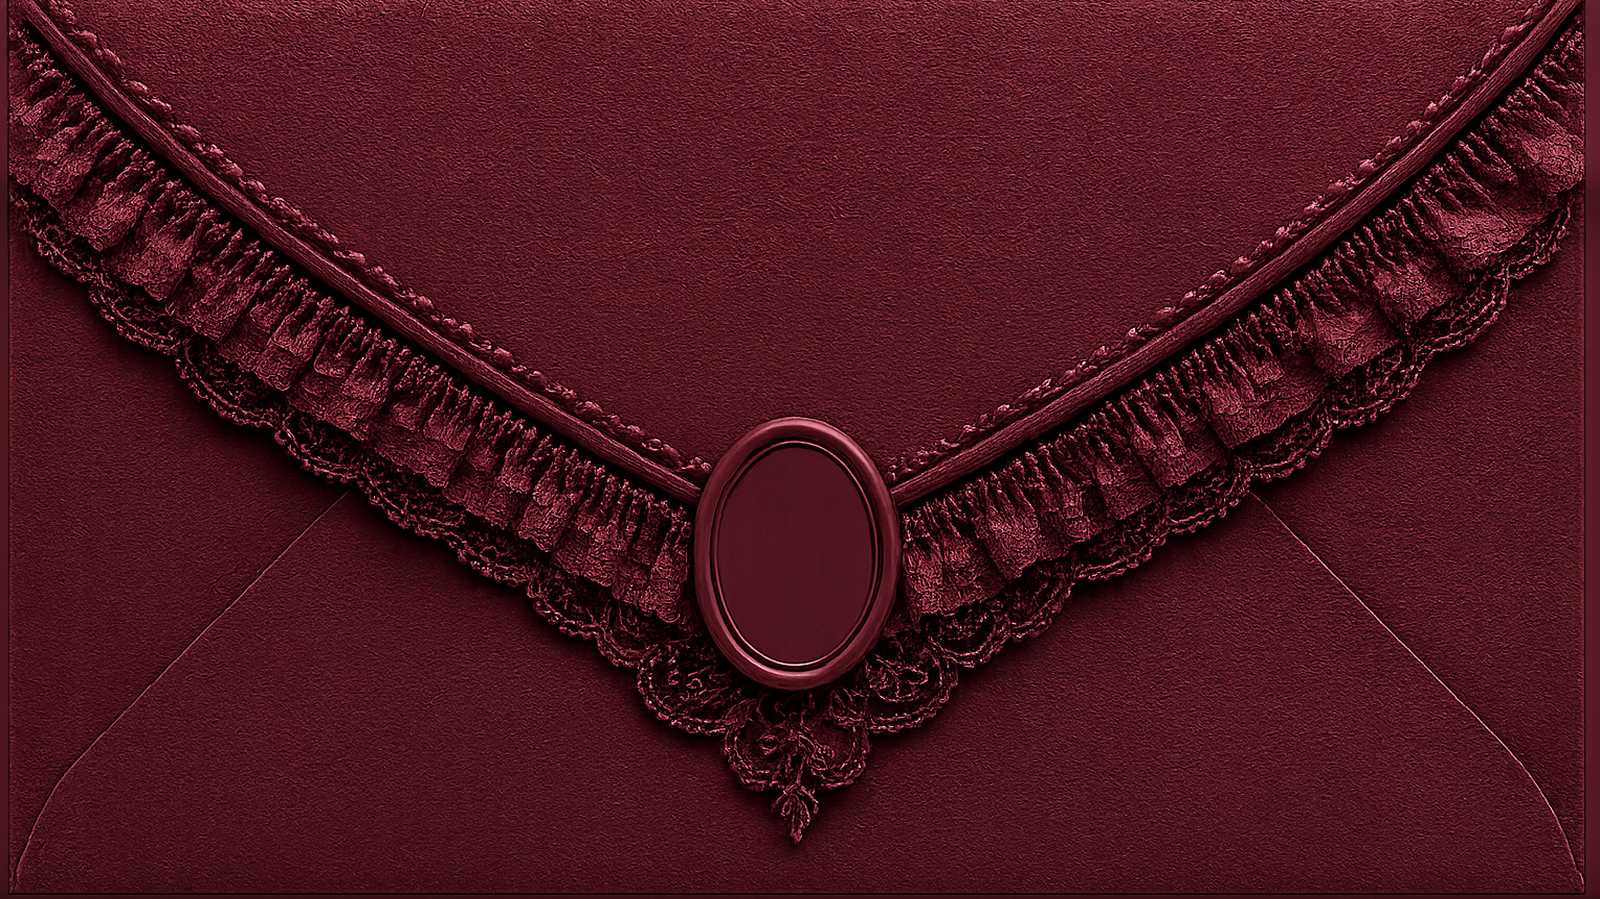
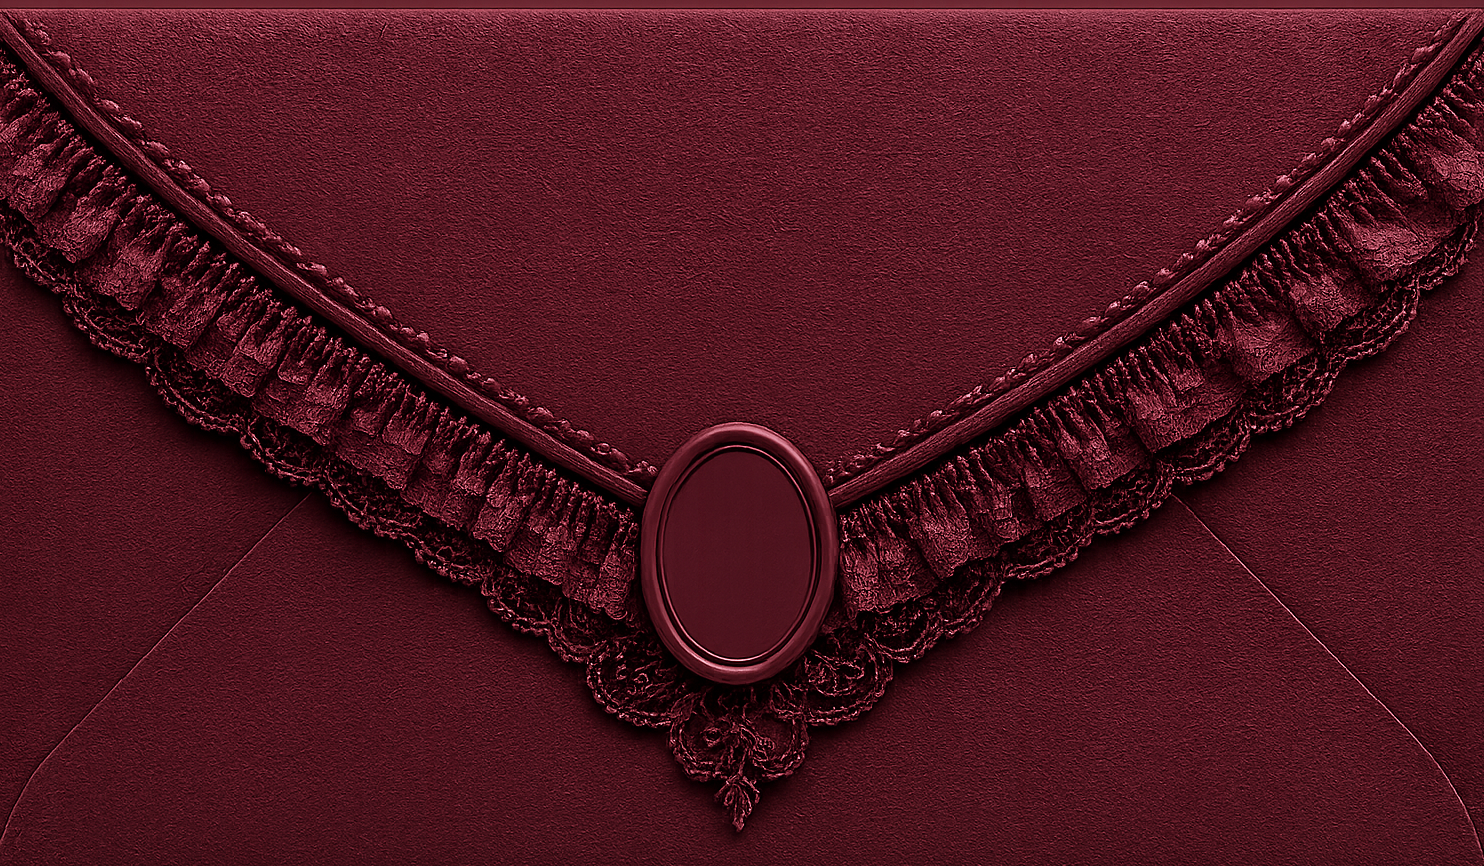
fix: env2 cover zoomed out — art cropped to the envelope face, desktop shows the whole envelope (contain) over the theme bg, mobile covers; seal targets remapped

diff --git a/src/styles/styles.css b/src/styles/styles.css
@@ -1852,7 +1852,7 @@ img.inv-seal-img--front { left: 48.28%; top: 89.56%; width: 10.15%; transform: t
    click hotspot + pulse ring to match it (olive's is a tall 13%x26% oval at
    49.4%/56.99% — too big + off-centre here). Higher specificity than the mobile
    .eg-sealed rule so it wins everywhere. */
-[data-theme="envelope2"] .eg-sealed .inv-seal-hotspot { left: 49.4%; top: 61.4%; width: 11.5%; height: 30.5%; transform: translate(-50%, -50%); }
+[data-theme="envelope2"] .eg-sealed .inv-seal-hotspot { left: 49.4%; top: 63.7%; width: 12%; height: 30.5%; transform: translate(-50%, -50%); }
 .inv-seal-hotspot {
   position: absolute; left: 49.4%; top: 56.99%; width: 13%; height: 26%;
   transform: translate(-50%, -50%); border: 0; background: transparent; padding: 0; margin: 0;
@@ -2035,14 +2035,20 @@ html:has(body.env-sealed) { overflow: hidden; overscroll-behavior: none; }
    visible pixelation on large screens. Show it near native scale; safe now that
    the art's black corner triangles are painted out. */
 /* Env2's sealed cover fills the whole screen like Olive Envelope (owner request). */
-[data-theme="envelope2"] .eg-sealed { width: max(142vw, 215vh); }
+/* env2: the burgundy art is the envelope FACE (aspect 1.71). Desktop shows the
+   whole envelope as a card over the theme background (contain); mobile covers
+   the viewport like the olive theme. */
+[data-theme="envelope2"] .eg-sealed { width: min(100vw, 171vh); }
+@media (max-width: 860px) {
+  [data-theme="envelope2"] .eg-sealed { width: max(100vw, 172svh); }
+}
 /* env2 seal sits lower than olive's — keep the tap cue below it. The burgundy
    paper is dark, so the base cream text works as-is. */
-[data-theme="envelope2"] .eg-sealed .inv-open-cue { top: 83%; }
+[data-theme="envelope2"] .eg-sealed .inv-open-cue { top: 85%; }
 /* env2: couple initials embossed into the wax oval — same letterpress
    treatment as the names, sized/positioned to the seal (50.6% / 55.8%). */
 [data-theme="envelope2"] .eg-sealed .inv-seal-mono {
-  position: absolute; left: 49.4%; top: 61.4%; transform: translate(-50%, -50%);
+  position: absolute; left: 49.4%; top: 63.7%; transform: translate(-50%, -50%);
   display: flex; flex-direction: column; align-items: center;
   font-family: "Great Vibes", cursive; font-size: 2.6cqw; line-height: 0.9;
   color: rgba(22, 5, 11, .55); text-shadow: 0 1px 0 rgba(255, 236, 236, .3);